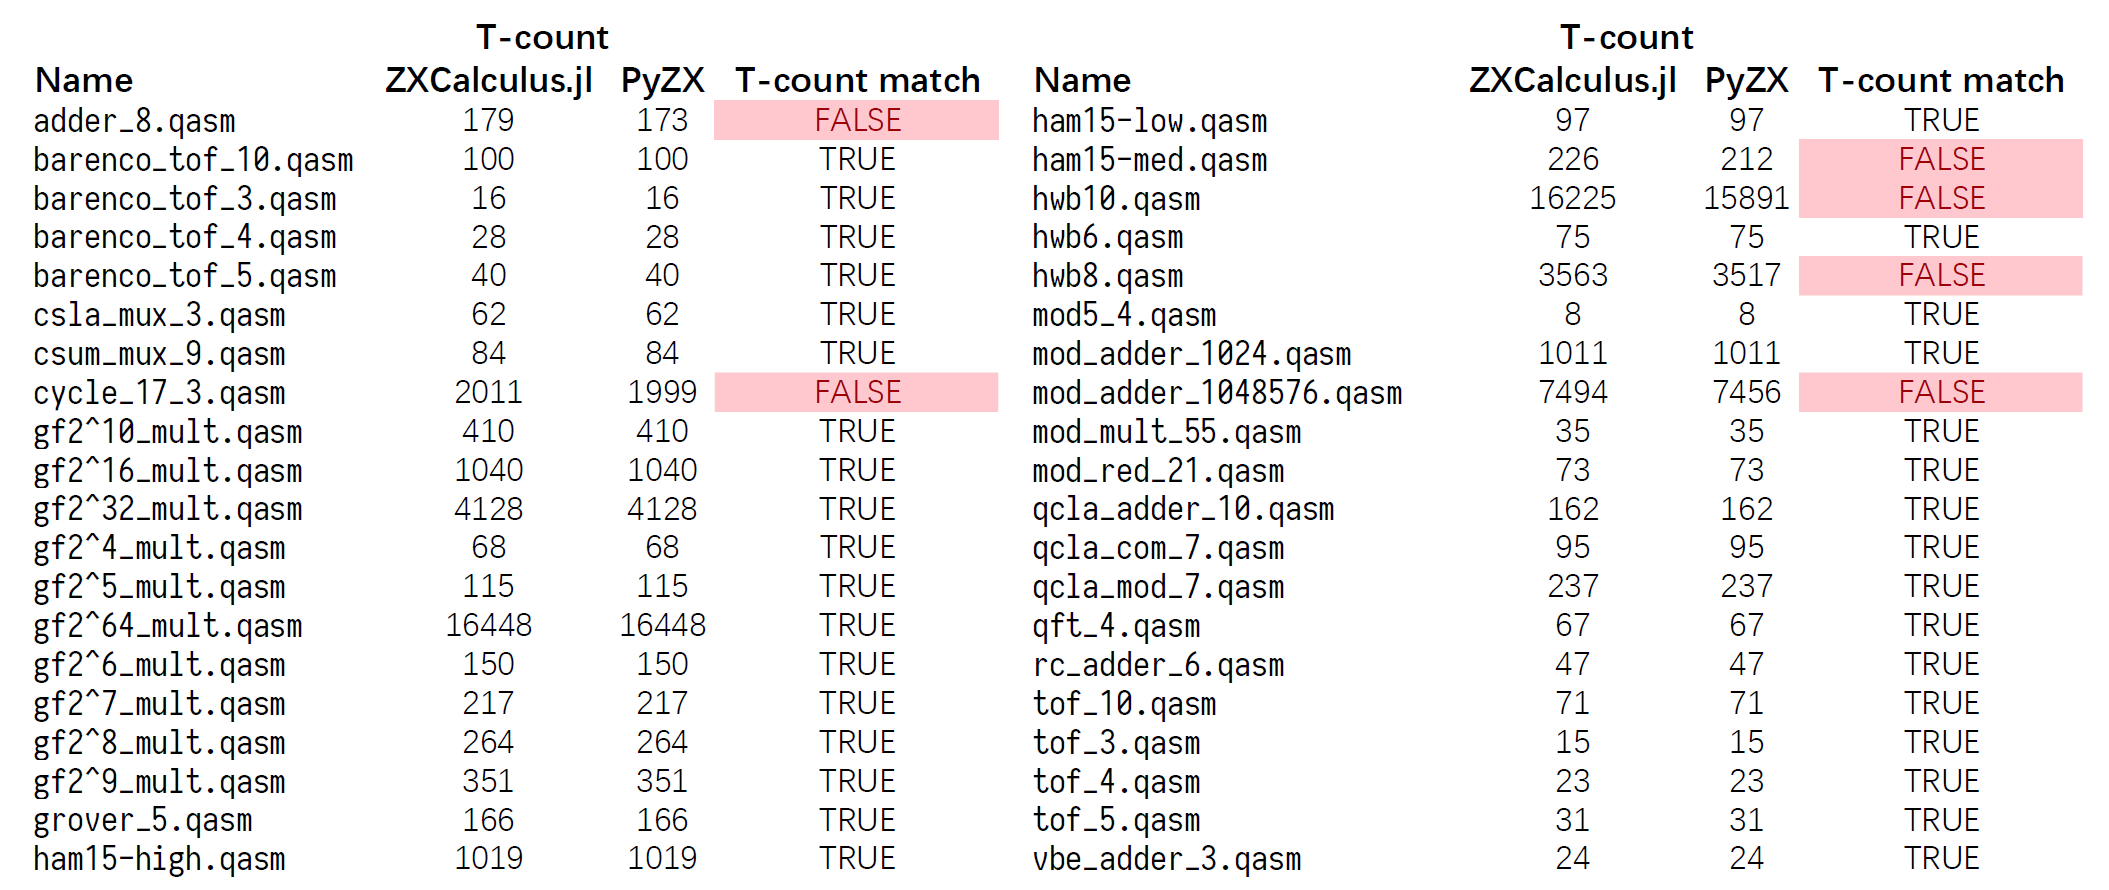
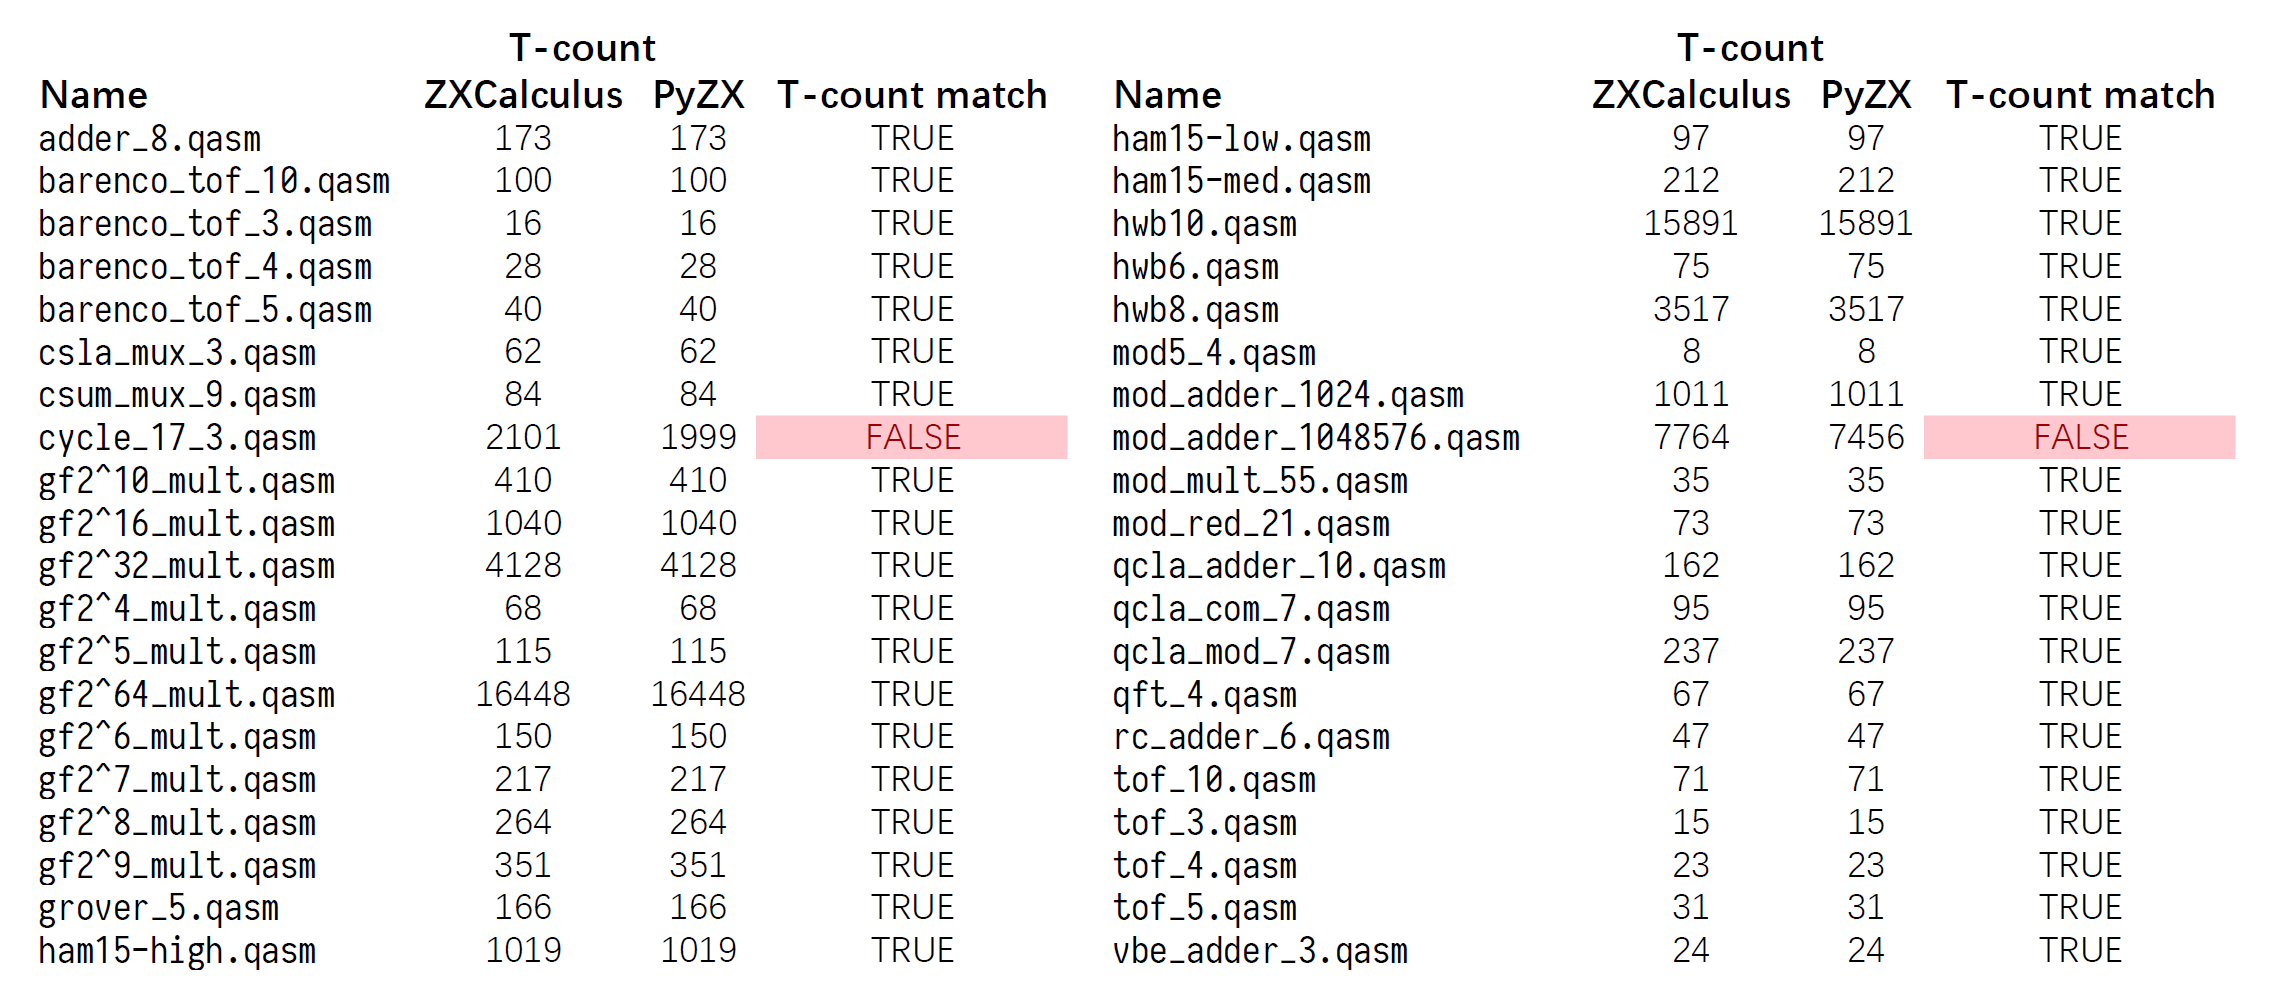
update benchmarks

Changed region(s): [[0.1849, 0.0303, 0.678, 1.0], [0.678, 0.0303, 1.0, 0.9708], [0.0, 0.0607, 0.1849, 1.0]]

diff --git a/_posts/2020-08-27-ZXCalculus.jl.md b/_posts/2020-08-27-ZXCalculus.jl.md
@@ -58,12 +58,15 @@ We can use the macro `@code_yao` to see the what circuit we have got. In this ex
 julia> using YaoLang.Compiler
 
 julia> gate_count(demo_circ_simp)
-Dict{Any,Any} with 5 entries:
-  "YaoLang.H"       => 6
-  "YaoLang.Rx"      => 3
-  "YaoLang.shift"   => 6
-  "@ctrl YaoLang.Z" => 1
-  "@ctrl YaoLang.X" => 4
+Dict{Any,Any} with 8 entries:
+  "YaoLang.Rx(3.141592653589793)"     => 2
+  "YaoLang.H"                         => 6
+  "YaoLang.Rx(0.7853981633974483)"    => 1
+  "YaoLang.shift(4.71238898038469)"   => 1
+  "YaoLang.shift(1.5707963267948966)" => 4
+  "YaoLang.shift(0.7853981633974483)" => 1
+  "@ctrl YaoLang.Z"                   => 1
+  "@ctrl YaoLang.X"                   => 4
 
 ```
 
@@ -96,7 +99,7 @@ ir.pure_quantum = is_pure_quantum(ir)
 circ = ZXDiagram(ir)
 pt_circ = phase_teleportation(circ)
 ```
-Here, we got a load a circuit as a `ZXDiagram` from a `.qasm` file which could be found [here](https://github.com/QuantumBFS/ZXCalculus.jl/tree/master/benchmark/circuits). And we used the phase teleportation algorithm to simplify it. We can see that the T-count of the circuit decreased from 448 to 264.
+Here, we got a load a circuit as a `ZXDiagram` from a `.qasm` file which can be found [here](https://github.com/QuantumBFS/ZXCalculus.jl/tree/master/benchmark/circuits). And we used the phase teleportation algorithm to simplify it. We can see that the T-count of the circuit decreased from 448 to 264.
 ```julia
 julia> tcount(circ)
 448
@@ -213,9 +216,9 @@ So why we developed **ZXCalculus.jl**? This is because **ZXCalculus.jl** is not 
 
 ### Benchmarks
 
-We benchmarked the phase teleportation algorithm on 40 circuits of various numbers of gates (from 57 to 91642). **ZXCalculus.jl** has 8x to 63x speed-up in these examples (the run time of **ZXCalculus.jl** is scaled to 1 for each circuit in this picture). These benchmarks are run on a laptop with Intel i7-10710U CPU and 16 GB RAM. The code for benchmarks could be found [here](https://github.com/Roger-luo/quantum-benchmarks).
+We benchmarked the phase teleportation algorithm on 40 circuits of various numbers of gates (from 57 to 91642). **ZXCalculus.jl** has 6x to 50x speed-up in these examples (the run time of **ZXCalculus.jl** is scaled to 1 for each circuit in this picture). These benchmarks are run on a laptop with Intel i7-10710U CPU and 16 GB RAM. The code for benchmarks could be found [here](https://github.com/Roger-luo/quantum-benchmarks).
 ![](\assets\blog_res\ZX\benchmarks.png "The wall clock time for optimizing the same circuit in ZXCalculus.jl and PyZX. The run time of ZXCalculus.jl is scaled to 1 for each circuit.")
-In most examples, the T-count of optimized circuits produced by **ZXCalculus.jl** is the same as **PyZX**. However in 6 examples, **ZXCalculus.jl** has more T-count than **PyZX**. This may be caused by the different simplification strategies between **ZXCalculus.jl** and **PyZX**. We will keep investigating it in the future as mentioned in the next section.
+In most examples, the T-count of optimized circuits produced by **ZXCalculus.jl** is the same as **PyZX**. However in 2 examples, **ZXCalculus.jl** has more T-count than **PyZX**. This may be caused by the different simplification strategies between **ZXCalculus.jl** and **PyZX**. We will keep investigating it in the future as mentioned in the next section.
 ![](\assets\blog_res\ZX\benchmarks t-count.png "T-count benchmarks between ZXCalculus.jl and PyZX. `TRUE` means the result of ZXCalculus.jl matches PyZX, `FALSE` means the feeded circuit in ZXCalculus.jl is not fully simplified, we will keep investigate this issue.")
 
 Also, **YaoLang.jl** support hybrid quantum-classical programs. It is possible to optimize hybrid quantum-classical programs with **ZXCalculus.jl**.
